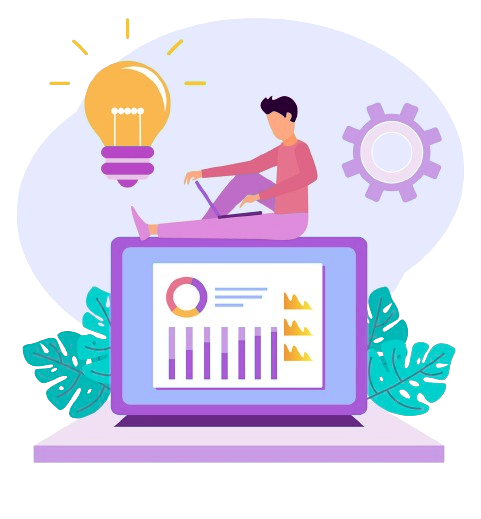
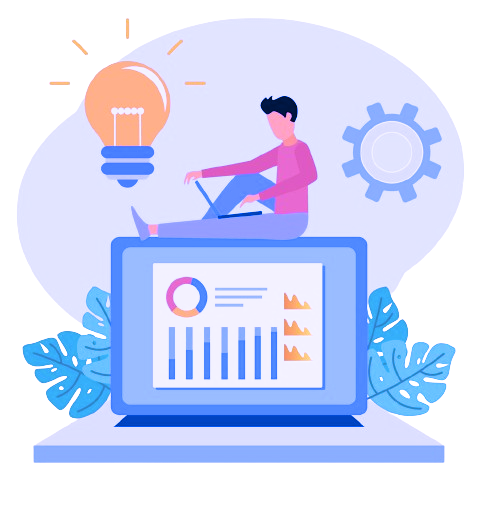
theam change

diff --git a/src/assets/components/main/Services.jsx b/src/assets/components/main/Services.jsx
@@ -13,7 +13,7 @@ const Services = () => {
     return (
         <>
             <section id="services" className="services">
-                <div className="container">
+                <div className="container" data-aos="fade-up">
                     <div className="row text-center">
                         <h1 className="display-3 fw-bold">My Services</h1>
                         <div className="heading-line mb-1"></div>
@@ -40,7 +40,7 @@ const Services = () => {
                 {/* <!-- START THE CONTENT FOR THE SERVICES  --> */}
                 <div className="container">
                     {/* <!-- START THE WEB DEVELOPMENT CONTENT  --> */}
-                    <div className="row" data-aos="fade-right">
+                    <div className="row" >
                         <div className="col-lg-6 col-md-6 col-sm-12 col-xs-12 services mt-4 d-flex align-items-center" >
                             <div className="services__content ">
                                 <div className="icon d-block fas fa-code service--icon">
@@ -63,7 +63,7 @@ const Services = () => {
                         </div>
                     </div>
                     {/* <!-- START THE CS CONTENT  --> */}
-                    <div className="row" data-aos="fade-left">
+                    <div className="row" >
                         <div className="col-lg-6 col-md-6 col-sm-12 col-xs-12 services mt-4 text-end">
                             <div className="services__pic">
                                 <img src="images/cyber.png" alt="cloud hosting illustration" className="img-fluid" />
@@ -86,7 +86,7 @@ const Services = () => {
                         </div>
                     </div>
                     {/* <!-- START THE Bussin CONTENT  --> */}
-                    <div className="row" data-aos="fade-right">
+                    <div className="row" >
                         <div className="col-lg-6 col-md-6 col-sm-12 col-xs-12 services mt-4 d-flex align-items-center">
                             <div className="services__content">
                                 <div className="icon d-block fas fa-paper-plane mx-3 service--icon">

diff --git a/src/assets/components/Header.jsx b/src/assets/components/Header.jsx
@@ -13,12 +13,11 @@ const Header = () => {
     function handleWelocmeClick() {
         // Get the target element
         const welcomeDivDiv = document.getElementById('welcomeDiv');
-    
-        // Scroll to the target element
-        welcomeDivDiv.scrollIntoView({ behavior: 'smooth' });
+
+        welcomeDivDiv.scrollIntoView({ behavior: 'auto' });
     }
 
-    
+
     // function handleContactClick() {
     //     navigateTo('/contact');
     // }
@@ -40,7 +39,6 @@ const Header = () => {
         const skillDiv = document.getElementById('skillDiv');
         const targetPosition = skillDiv.offsetTop - 70; // Adjust the offset as needed
 
-        // Scroll to the calculated position
         window.scrollTo({
             top: targetPosition,
             behavior: 'smooth'
@@ -58,7 +56,7 @@ const Header = () => {
             behavior: 'smooth'
         });
     }
-    
+
 
     return (
         <Navbar expand="lg" className={`${styles.navbar} shadow position-fixed w-100`}>
@@ -83,11 +81,6 @@ const Header = () => {
                     <Nav.Link className={`text-light mx-2`} onClick={handleSkillClick}>
                         <p className={`${styles.links}`}>
                             Skills
-                        </p>
-                    </Nav.Link>
-                    <Nav.Link className={'text-light mx-2'}>
-                        <p className={`${styles.links}`}>
-                            About
                         </p>
                     </Nav.Link>
                     <Nav.Link className={'text-light mx-2'} onClick={handleContactClick}>

diff --git a/src/assets/styles/style.css b/src/assets/styles/style.css
@@ -2,20 +2,20 @@
 # Heding
 --------------------------------------------------------------*/
 .display-3--title {
-  color: rgba(143, 23, 234, 0.95);
+  color: rgba(22, 3, 106, 0.95);
   font-weight: bold;
   font-size: 25px;
 }
 
 .service--icon {
-  stroke: rgba(204, 0, 255, 0.753);
+  stroke: rgba(0, 35, 86, 0.753);
   /* Stroke color */
   stroke-width: 1;
   /* Stroke width */
   font-size: 40px;
   margin: 5px;
   font-weight: 900;
-  color: rgba(204, 0, 255, 0.753);
+  color: rgba(56, 11, 153, 0.753);
 }
 
 .border-end {
@@ -28,7 +28,7 @@
   height: 0.1rem;
   display: block;
   margin: 0 auto;
-  background-color: #9926f0;
+  background-color: #390363;
 }
 
 .heading-line::after {
@@ -39,7 +39,7 @@
   display: block;
   margin: 0 auto;
   margin-bottom: 1rem;
-  background-color: #9926f0;
+  background-color: #35025c;
 }
 
 /*--------------------------------------------------------------
@@ -57,7 +57,7 @@
 
 .contact-box__icon {
   width: 2rem;
-  stroke: #9926f0;
+  stroke: #c4a0e0;
   padding-top: 0.5rem;
 }
 

diff --git a/src/assets/styles/Welcome.module.css b/src/assets/styles/Welcome.module.css
@@ -1,6 +1,6 @@
 .introSection {
-    background: linear-gradient(to right, rgba(154, 34, 246, 0.95), rgba(211, 9, 234, 0.95));
-    /* background: linear-gradient(to right, rgba(68, 0, 216, 0.656), rgb(75, 150, 249)); */
+    /* background: linear-gradient(to right, rgba(154, 34, 246, 0.95), rgba(211, 9, 234, 0.95)); */
+    background: linear-gradient(to right, #00203FFF, rgb(12, 89, 165));
     padding: 10rem 0 0 0;
     height: 100%;
 }
@@ -11,12 +11,14 @@
 
 #button {
     background-color: rgba(255, 255, 255, 0.95);
-    color: #000000; /* Matching text color */
+    color: #000000;
+    border-color: #ffffff;
 }
 
 #button:hover {
-    background-color: rgba(205, 59, 245, 0.95);
-    color: #ffffff; /* Matching text color */
+    background-color: rgba(30, 3, 120, 0.95);
+    color: #ffffff;
+    /* Matching text color */
 }
 
 .img_box {

diff --git a/src/assets/components/Footer.jsx b/src/assets/components/Footer.jsx
@@ -66,7 +66,7 @@ const Footer = () => {
                     <div className="container">
                         <div className="row py-4 text-center text-white">
                             <div className="col-lg-5 col-md-6 mb-4 mb-md-0">
-                                connect with us on social media
+                                connect with me on social media
                             </div>
                             <div className="col-lg-7 col-md-6">
                                 <Contact />

diff --git a/src/assets/components/main/Home.jsx b/src/assets/components/main/Home.jsx
@@ -43,13 +43,13 @@ const Home = () => {
                 <Services />
             </div>
 
-            <div className="mt-4" id="skillDiv">
+            <div className="mt-4 mb-5" id="skillDiv">
                 <Skill />
             </div>
-
+{/* 
             <div className="mt-5" id="contactDiv">
                 <ContactPage />
-            </div>
+            </div> */}
 
         </>
 

diff --git a/src/assets/styles/Header.module.css b/src/assets/styles/Header.module.css
@@ -1,5 +1,6 @@
 .navbar{
-    background: linear-gradient(to right, rgba(153, 38, 240, 0.95), rgba(209, 34, 227, 0.95));
+    /* background: linear-gradient(to right, rgba(153, 38, 240, 0.95), rgba(209, 34, 227, 0.95)); */
+    background: linear-gradient(to right, rgb(1, 29, 58), rgb(2, 54, 106));
     z-index: 999;
     opacity: 1;
     /* box-shadow: 0px 0px 10px 2px rgba(255, 0, 0, 0.5); */
